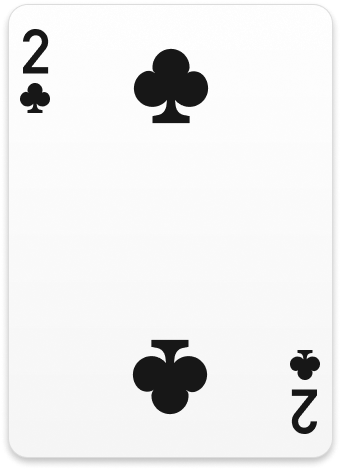
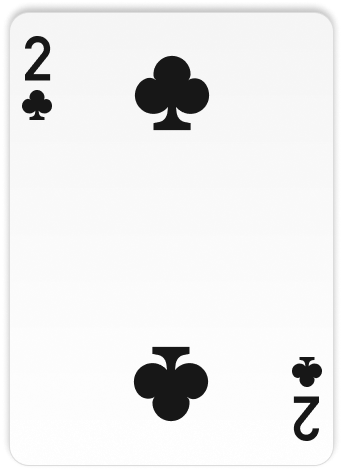
Working correctly now

diff --git a/e2e/pokerFlip.spec.ts b/e2e/pokerFlip.spec.ts
@@ -1,0 +1,122 @@
+import {test, expect, type Page, type Locator} from "@playwright/test";
+
+/*
+ *  RevealPokerCard — expected behaviours (E2E)
+ *  ───────────────────────────────────────────
+ *  1. Five cards render face-down with a "squeeze to peek" hint; no overlays.
+ *  2. Pressing near a corner selects the nearest anchor → finger + anchor label.
+ *  3. Dragging toward the opposite side shows the progress bar.
+ *  4. Release below the 50% threshold → springs back, stays face-down.
+ *  5. Release past the threshold → fully reveals the face ("tap to reset").
+ *  6. The revealed face is scaleX(-1) scaleY(-1) — i.e. a 180° rotation (readable).
+ *  7. Tapping a revealed card resets it to face-down.
+ *  8. Dragging beyond the anchor hides the finger.
+ */
+
+const W = 200, H = 275; // card-local size (CARD_W × CARD_H)
+
+const firstCard = (page: Page): Locator => page.getByTestId("poker-card").first();
+
+async function cardBox(card: Locator) {
+    const b = await card.boundingBox();
+    if (!b) throw new Error("card has no bounding box");
+    return b;
+}
+
+/** Press at a card-local point and hold (caller releases). */
+async function pressAt(page: Page, card: Locator, x: number, y: number) {
+    const b = await cardBox(card);
+    await page.mouse.move(b.x + x, b.y + y);
+    await page.mouse.down();
+    await page.waitForTimeout(60); // let the drag-listener effect attach
+}
+
+/** Move the (held) pointer to a card-local point. */
+async function moveTo(page: Page, card: Locator, x: number, y: number, steps = 12) {
+    const b = await cardBox(card);
+    await page.mouse.move(b.x + x, b.y + y, {steps});
+}
+
+/** Full press → drag → release between two card-local points. */
+async function dragRelease(page: Page, card: Locator, from: [number, number], to: [number, number]) {
+    await pressAt(page, card, from[0], from[1]);
+    await moveTo(page, card, to[0], to[1], 16);
+    await page.mouse.up();
+}
+
+test.beforeEach(async ({page}) => {
+    await page.goto("/tasks/PokerFlip");
+    await expect(firstCard(page)).toBeVisible();
+    await page.waitForTimeout(1200); // let the staggered entrance animation settle
+});
+
+test.describe("RevealPokerCard — squeeze / peel", () => {
+
+    test("1. renders five face-down cards with the hint and no overlays", async ({page}) => {
+        await expect(page.getByTestId("poker-card")).toHaveCount(5);
+        await expect(firstCard(page).getByText("squeeze to peek")).toBeVisible();
+        await expect(page.getByTestId("poker-card-finger")).toHaveCount(0);
+        await expect(page.getByTestId("poker-card-face")).toHaveCount(0);
+    });
+
+    test("2. pressing near a corner shows the finger + nearest-anchor label", async ({page}) => {
+        const card = firstCard(page);
+        await pressAt(page, card, 6, 6);          // top-left corner
+        await moveTo(page, card, 40, 55, 8);      // small drag inward
+        await expect(card.getByTestId("poker-card-finger")).toBeVisible();
+        await expect(card.getByText("top-left")).toBeVisible();
+        await page.mouse.up();
+    });
+
+    test("3. dragging toward the opposite side shows the progress bar", async ({page}) => {
+        const card = firstCard(page);
+        await pressAt(page, card, 6, 6);
+        await moveTo(page, card, 60, 80, 8);
+        await expect(card.getByTestId("poker-card-progress")).toBeVisible();
+        await page.mouse.up();
+    });
+
+    test("4. releasing below the threshold springs back (stays face-down)", async ({page}) => {
+        const card = firstCard(page);
+        await dragRelease(page, card, [6, 6], [40, 55]); // ≈ 0.36 progress
+        await page.waitForTimeout(600);                  // spring-back animation
+        await expect(card.getByTestId("poker-card-face")).toHaveCount(0);
+        await expect(card.getByText("squeeze to peek")).toBeVisible();
+    });
+
+    test("5. releasing past the threshold fully reveals the face", async ({page}) => {
+        const card = firstCard(page);
+        await dragRelease(page, card, [6, 6], [W * 0.85, H * 0.85]);
+        await expect(card.getByTestId("poker-card-face")).toBeVisible();
+        await expect(card.getByText("tap to reset")).toBeVisible();
+    });
+
+    test("6. the revealed face is scaleX(-1) scaleY(-1) — a 180° rotation", async ({page}) => {
+        const card = firstCard(page);
+        await dragRelease(page, card, [6, 6], [W * 0.85, H * 0.85]);
+        const face = card.getByTestId("poker-card-face");
+        await expect(face).toBeVisible();
+        // scaleX(-1) scaleY(-1) composes to a 180° rotation → matrix(-1, 0, 0, -1, 0, 0)
+        expect(await face.evaluate((el) => getComputedStyle(el).transform)).toBe("matrix(-1, 0, 0, -1, 0, 0)");
+    });
+
+    test("7. tapping a revealed card resets it to face-down", async ({page}) => {
+        const card = firstCard(page);
+        await dragRelease(page, card, [6, 6], [W * 0.85, H * 0.85]);
+        await expect(card.getByTestId("poker-card-face")).toBeVisible();
+        await page.waitForTimeout(450);
+        await card.click(); // tap → reset
+        await expect(card.getByTestId("poker-card-face")).toHaveCount(0);
+        await expect(card.getByText("squeeze to peek")).toBeVisible();
+    });
+
+    test("8. the finger hides when dragged beyond the anchor", async ({page}) => {
+        const card = firstCard(page);
+        await pressAt(page, card, 8, 8);                  // grab top-left
+        await moveTo(page, card, 50, 65, 6);              // inward → finger visible
+        await expect(card.getByTestId("poker-card-finger")).toBeVisible();
+        await moveTo(page, card, -40, -40, 6);            // beyond the anchor (proj < 0)
+        await expect(card.getByTestId("poker-card-finger")).toHaveCount(0);
+        await page.mouse.up();
+    });
+});

diff --git a/src/components/PokerFlip/usePeelGesture.ts b/src/components/PokerFlip/usePeelGesture.ts
@@ -3,7 +3,7 @@ import {
     CARD_W, CARD_H, THRESHOLD,
     MAX_PEEL_DIST, MAX_DRAG_DIST, SOFT_RESET_PROJ, SPRING_BACK_MS,
 } from "./constants";
-import {clamp, lerp, pos, nearestAnchor, peelAxisProjection} from "./pokerFlipHelper";
+import {clamp, lerp, pos, nearestAnchor} from "./pokerFlipHelper";
 import type {Anchor, Fold, Point, PointerEventLike, PeelGesture, UsePeelGestureOptions} from "./pokerFlipInterface";
 
 /**
@@ -63,12 +63,25 @@ export function usePeelGesture({onReveal, onReset}: UsePeelGestureOptions = {}):
             my = anchor.y + rdy * k;
         }
 
-        // Progress is the drag's projection onto the peel axis (anchor → centre =
-        // toward the opposite corner/edge), so off-axis drift advances it less.
-        const proj = peelAxisProjection(anchor, mx, my);
+        // The peel is LOCKED to the peel axis: U = anchor → card centre, which for a
+        // rectangle points straight at the opposite corner/edge. The pointer only
+        // controls how far ALONG that axis the peel advances (its projection) — any
+        // off-axis movement is ignored, so the fold direction never wobbles. Grab the
+        // top-left and the peel always runs to the bottom-right; an edge peels straight
+        // across. (Vice-versa for every anchor.)
+        // Snap the peel axis to the 8 natural directions: a CORNER peels along the
+        // 45° diagonal away from the held corner (a natural dog-ear), an EDGE peels
+        // straight across. Math.sign() returns 0 on an edge anchor's centred axis, so
+        // edges stay axis-aligned; corners get equal ±1 components → a true 45°.
+        let ux = Math.sign(CARD_W / 2 - anchor.x), uy = Math.sign(CARD_H / 2 - anchor.y);
+        const ulen = Math.hypot(ux, uy) || 1;
+        ux /= ulen;
+        uy /= ulen;
+        const proj = (mx - anchor.x) * ux + (my - anchor.y) * uy;
 
-        // keep the finger tracking the (clamped) pointer, whatever direction it goes
-        setCursorPos({x: mx, y: my});
+        // The finger rides along that axis at the current peel depth, so it always
+        // points straight down the peel direction instead of off to the side.
+        setCursorPos({x: anchor.x + ux * proj, y: anchor.y + uy * proj});
 
         // Dragged back to / past the anchor → soft reset: flap retracts, progress 0,
         // but the gesture stays alive so dragging forward again resumes it.
@@ -80,12 +93,10 @@ export function usePeelGesture({onReveal, onReset}: UsePeelGestureOptions = {}):
 
         const t = clamp(proj / MAX_PEEL_DIST, 0, 1);
 
-        // The fold line follows the actual pointer direction (free, natural angle);
-        // only the progress metric is axis-gated.
-        const dx = mx - anchor.x, dy = my - anchor.y;
-        const dist = Math.hypot(dx, dy);
-        const ndx = dx / dist, ndy = dy / dist;
-        setFold({px: anchor.x + ndx * dist * 0.5, py: anchor.y + ndy * dist * 0.5, nx: ndx, ny: ndy});
+        // Fold line is perpendicular to the fixed peel axis, at the midpoint of the
+        // peeled span — always a clean diagonal (corners) or straight across (edges),
+        // so the folded flap stays congruent to the area it lifted from.
+        setFold({px: anchor.x + ux * proj * 0.5, py: anchor.y + uy * proj * 0.5, nx: ux, ny: uy});
         setProgress(t);
     }, [dragging, anchor]);
 

diff --git a/playwright.config.ts b/playwright.config.ts
@@ -1,0 +1,24 @@
+import {defineConfig, devices} from "@playwright/test";
+
+// E2E config for the PokerFlip squeeze/peel component.
+// Boots the Vite dev server on a fixed port and runs the specs in e2e/.
+export default defineConfig({
+    testDir: "./e2e",
+    fullyParallel: true,
+    forbidOnly: !!process.env.CI,
+    retries: process.env.CI ? 1 : 0,
+    reporter: process.env.CI ? "line" : "list",
+    use: {
+        baseURL: "http://localhost:5173",
+        trace: "on-first-retry",
+    },
+    projects: [
+        {name: "chromium", use: {...devices["Desktop Chrome"]}},
+    ],
+    webServer: {
+        command: "npx vite --port 5173 --strictPort",
+        url: "http://localhost:5173/",
+        reuseExistingServer: !process.env.CI,
+        timeout: 120_000,
+    },
+});
